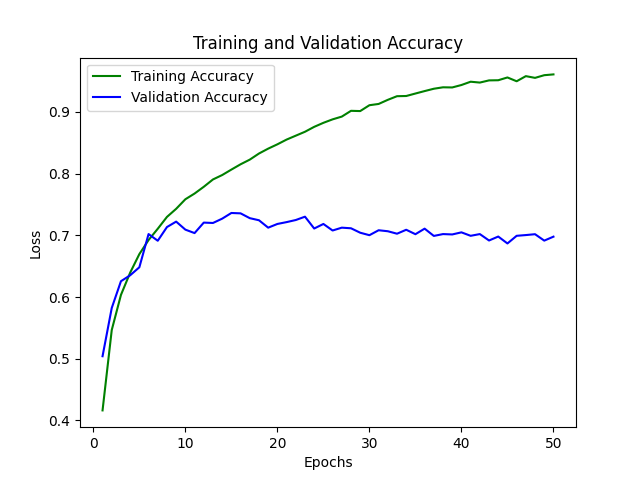
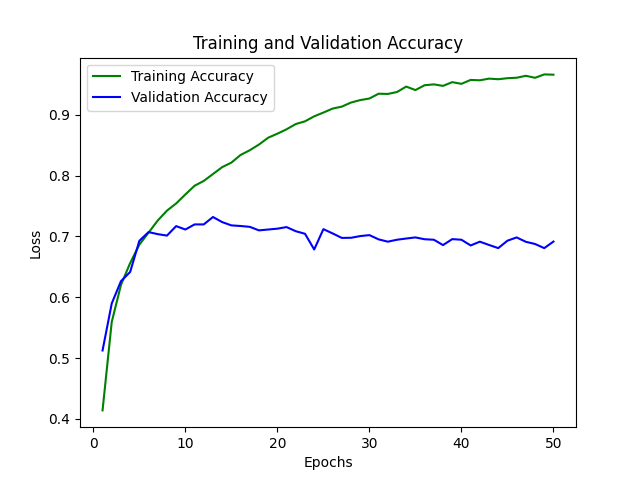
Base tests

diff --git a/src/conv_cifar_base_1_green.py b/src/conv_cifar_base_1_green.py
@@ -1,10 +1,16 @@
-import time
-
 import tensorflow as tf
+import time
 from keras import layers, models
-import matplotlib.pyplot as plt
 from keras.src.losses import SparseCategoricalCrossentropy
+import matplotlib.pyplot as plt
 from tf_keras import datasets
+
+RED = 0
+GREEN = 1
+BLUE = 2
+
+def filter_rgb_channel(images, channel):
+    return images[:, :, :, channel:channel + 1]
 
 gpus = tf.config.list_logical_devices('GPU')
 if len(gpus) != 0:
@@ -25,19 +31,24 @@ with tf.device(device):
     train_images = train_images.astype('float32') / 255.0
     test_images = test_images.astype('float32') / 255.0
     
+    rgb_channel = GREEN
+
+    train_images = filter_rgb_channel(train_images, rgb_channel)
+    test_images = filter_rgb_channel(test_images, rgb_channel)
+    
     model = models.Sequential([
-        layers.Conv2D(32, (3, 3), activation=None, input_shape=(32, 32, 3)),
+        layers.Conv2D(32, (3, 3), activation='relu', input_shape=(32, 32, 1)),
         layers.MaxPooling2D((2, 2)),
-        layers.Conv2D(64, (3, 3), activation=None),
+        layers.Conv2D(64, (3, 3), activation='relu'),
         layers.MaxPooling2D((2, 2)),
-        layers.Conv2D(64, (3, 3), activation=None),
+        layers.Conv2D(64, (3, 3), activation='relu'),
         layers.Flatten(),
-        layers.Dense(64, activation=None),
-        layers.Dense(10, activation=None),
+        layers.Dense(64, activation='relu'),
+        layers.Dense(10, activation='softmax'),
     ])
     
     model.compile(optimizer='adam',
-                  loss=SparseCategoricalCrossentropy(from_logits=True),
+                  loss=SparseCategoricalCrossentropy(from_logits=False),
                   metrics=['accuracy'])
     start = time.time()
     history = model.fit(train_images, train_labels,
@@ -58,4 +69,3 @@ with tf.device(device):
     plt.ylabel('Loss')
     plt.legend()
     plt.show()
-

diff --git a/src/conv_cifar_base_1_blue.py b/src/conv_cifar_base_1_blue.py
@@ -1,10 +1,16 @@
-import time
-
 import tensorflow as tf
+import time
 from keras import layers, models
-import matplotlib.pyplot as plt
 from keras.src.losses import SparseCategoricalCrossentropy
+import matplotlib.pyplot as plt
 from tf_keras import datasets
+
+RED = 0
+GREEN = 1
+BLUE = 2
+
+def filter_rgb_channel(images, channel):
+    return images[:, :, :, channel:channel + 1]
 
 gpus = tf.config.list_logical_devices('GPU')
 if len(gpus) != 0:
@@ -25,19 +31,24 @@ with tf.device(device):
     train_images = train_images.astype('float32') / 255.0
     test_images = test_images.astype('float32') / 255.0
     
+    rgb_channel = BLUE
+
+    train_images = filter_rgb_channel(train_images, rgb_channel)
+    test_images = filter_rgb_channel(test_images, rgb_channel)
+    
     model = models.Sequential([
-        layers.Conv2D(32, (3, 3), activation=None, input_shape=(32, 32, 3)),
+        layers.Conv2D(32, (3, 3), activation='relu', input_shape=(32, 32, 1)),
         layers.MaxPooling2D((2, 2)),
-        layers.Conv2D(64, (3, 3), activation=None),
+        layers.Conv2D(64, (3, 3), activation='relu'),
         layers.MaxPooling2D((2, 2)),
-        layers.Conv2D(64, (3, 3), activation=None),
+        layers.Conv2D(64, (3, 3), activation='relu'),
         layers.Flatten(),
-        layers.Dense(64, activation=None),
-        layers.Dense(10, activation=None),
+        layers.Dense(64, activation='relu'),
+        layers.Dense(10, activation='softmax'),
     ])
     
     model.compile(optimizer='adam',
-                  loss=SparseCategoricalCrossentropy(from_logits=True),
+                  loss=SparseCategoricalCrossentropy(from_logits=False),
                   metrics=['accuracy'])
     start = time.time()
     history = model.fit(train_images, train_labels,
@@ -58,4 +69,3 @@ with tf.device(device):
     plt.ylabel('Loss')
     plt.legend()
     plt.show()
-

diff --git a/src/conv_cifar_base_1_red.py b/src/conv_cifar_base_1_red.py
@@ -1,10 +1,16 @@
-import time
-
 import tensorflow as tf
+import time
 from keras import layers, models
-import matplotlib.pyplot as plt
 from keras.src.losses import SparseCategoricalCrossentropy
+import matplotlib.pyplot as plt
 from tf_keras import datasets
+
+RED = 0
+GREEN = 1
+BLUE = 2
+
+def filter_rgb_channel(images, channel):
+    return images[:, :, :, channel:channel + 1]
 
 gpus = tf.config.list_logical_devices('GPU')
 if len(gpus) != 0:
@@ -25,19 +31,24 @@ with tf.device(device):
     train_images = train_images.astype('float32') / 255.0
     test_images = test_images.astype('float32') / 255.0
     
+    rgb_channel = RED
+
+    train_images = filter_rgb_channel(train_images, rgb_channel)
+    test_images = filter_rgb_channel(test_images, rgb_channel)
+    
     model = models.Sequential([
-        layers.Conv2D(32, (3, 3), activation=None, input_shape=(32, 32, 3)),
+        layers.Conv2D(32, (3, 3), activation='relu', input_shape=(32, 32, 1)),
         layers.MaxPooling2D((2, 2)),
-        layers.Conv2D(64, (3, 3), activation=None),
+        layers.Conv2D(64, (3, 3), activation='relu'),
         layers.MaxPooling2D((2, 2)),
-        layers.Conv2D(64, (3, 3), activation=None),
+        layers.Conv2D(64, (3, 3), activation='relu'),
         layers.Flatten(),
-        layers.Dense(64, activation=None),
-        layers.Dense(10, activation=None),
+        layers.Dense(64, activation='relu'),
+        layers.Dense(10, activation='softmax'),
     ])
     
     model.compile(optimizer='adam',
-                  loss=SparseCategoricalCrossentropy(from_logits=True),
+                  loss=SparseCategoricalCrossentropy(from_logits=False),
                   metrics=['accuracy'])
     start = time.time()
     history = model.fit(train_images, train_labels,
@@ -58,4 +69,3 @@ with tf.device(device):
     plt.ylabel('Loss')
     plt.legend()
     plt.show()
-

diff --git a/src/conv_cifar_no_activation_logits.py b/src/conv_cifar_no_activation_logits.py
@@ -1,3 +1,5 @@
+import time
+
 import tensorflow as tf
 from keras import layers, models
 import matplotlib.pyplot as plt
@@ -37,15 +39,17 @@ with tf.device(device):
     model.compile(optimizer='adam',
                   loss=SparseCategoricalCrossentropy(from_logits=False),
                   metrics=['accuracy'])
+    start = time.time()
     history = model.fit(train_images, train_labels,
                         epochs=50,
                         batch_size=64,
                         validation_split=0.1)
+    duration_ms = (time.time() - start) * 1000
     train_accuracy, val_accuracy = history.history['accuracy'], history.history['val_accuracy']
     
     epochs = range(1, len(train_accuracy) + 1)
     test_loss, test_acc = model.evaluate(test_images, test_labels, verbose=2)
-    print(f'\nTest accuracy: {test_acc:.4f}')
+    print(f'\nTest accuracy: {test_acc:.4f}, time: {duration_ms:.0f}ms')
     
     plt.plot(epochs, train_accuracy, 'g', label='Training Accuracy')
     plt.plot(epochs, val_accuracy, 'b', label='Validation Accuracy')

diff --git a/src/conv_cifar_base_1.py b/src/conv_cifar_base_1.py
@@ -1,3 +1,4 @@
+import time
 import tensorflow as tf
 from keras import layers, models
 import matplotlib.pyplot as plt
@@ -37,15 +38,17 @@ with tf.device(device):
     model.compile(optimizer='adam',
                   loss=SparseCategoricalCrossentropy(from_logits=False),
                   metrics=['accuracy'])
+    start = time.time()
     history = model.fit(train_images, train_labels,
                         epochs=50,
                         batch_size=64,
                         validation_split=0.1)
+    duration_ms = (time.time() - start) * 1000
     train_accuracy, val_accuracy = history.history['accuracy'], history.history['val_accuracy']
 
     epochs = range(1, len(train_accuracy) + 1)
     test_loss, test_acc = model.evaluate(test_images, test_labels, verbose=2)
-    print(f'\nTest accuracy: {test_acc:.4f}')
+    print(f'\nTest accuracy: {test_acc:.4f}, time: {duration_ms:.0f}ms')
     
     plt.plot(epochs, train_accuracy, 'g', label='Training Accuracy')
     plt.plot(epochs, val_accuracy, 'b', label='Validation Accuracy')

diff --git a/src/conv_cifar_no_activation_unfused.py b/src/conv_cifar_no_activation_unfused.py
@@ -33,11 +33,11 @@ with tf.device(device):
         layers.Conv2D(64, (3, 3), activation=None),
         layers.Flatten(),
         layers.Dense(64, activation=None),
-        layers.Dense(10, activation=None),
+        layers.Dense(10, activation='softmax'),
     ])
     
     model.compile(optimizer='adam',
-                  loss=SparseCategoricalCrossentropy(from_logits=True),
+                  loss=SparseCategoricalCrossentropy(from_logits=False),
                   metrics=['accuracy'])
     start = time.time()
     history = model.fit(train_images, train_labels,
